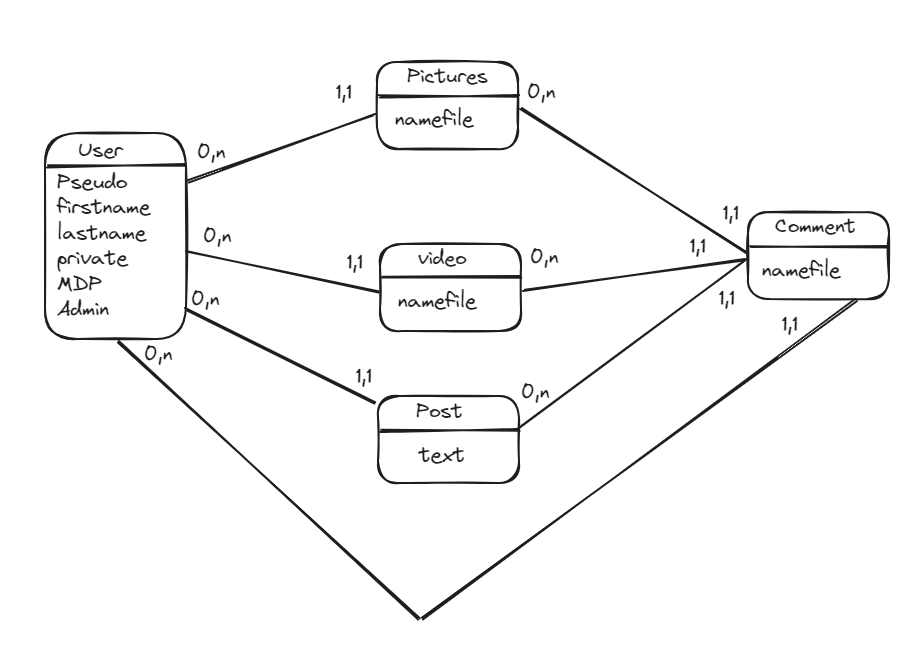
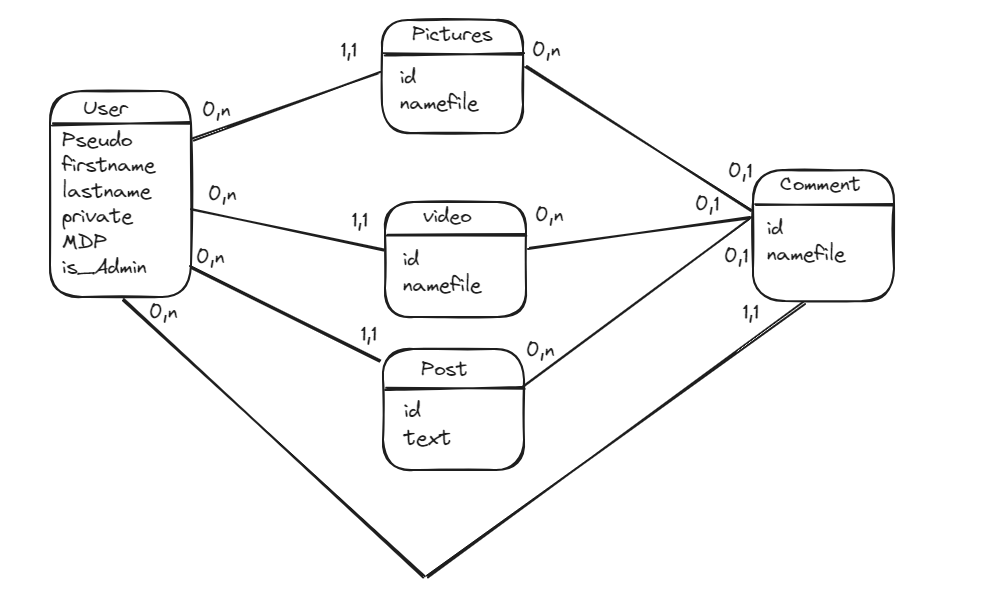
create bdd

diff --git a/init.py b/init.py
@@ -1,9 +1,38 @@
 from flask import Flask
+import pyodbc, struct
+from azure import identity
+
+connection_string = os.environ["AZURE_SQL_CONNECTIONSTRING"]
 app = Flask(__name__)
+
+
 
 @app.route("/")
 def index():
     return "<h1>Hello Azure!</h1>"
 
 if __name__ == "__main__":
+     conn = get_conn()
+        cursor = conn.cursor()
+        cursor.execute("""
+            CREATE TABLE user (
+                pseudo varchar(255) NOT NULL PRIMARY KEY,
+                FirstName varchar(255) NOT NULL,
+                LastName varchar(255) NOT NULL,
+                mdp varchar(255) NOT NULL,
+                private BIT NOT NULL DEFAULT 0,
+                is_admin BIT NOT NULL DEFAULT 0,
+            );
+        """)
+
+        conn.commit()
     app.run(debug=True)
+
+
+def get_conn():
+    credential = identity.DefaultAzureCredential(exclude_interactive_browser_credential=False)
+    token_bytes = credential.get_token("https://database.windows.net/.default").token.encode("UTF-16-LE")
+    token_struct = struct.pack(f'<I{len(token_bytes)}s', len(token_bytes), token_bytes)
+    SQL_COPT_SS_ACCESS_TOKEN = 1256  # This connection option is defined by microsoft in msodbcsql.h
+    conn = pyodbc.connect(connection_string, attrs_before={SQL_COPT_SS_ACCESS_TOKEN: token_struct})
+    return conn
